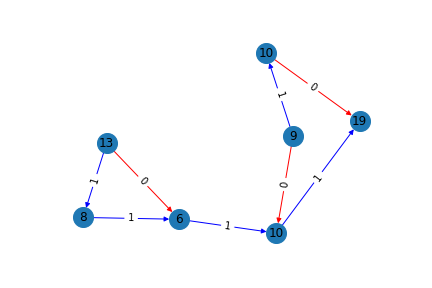
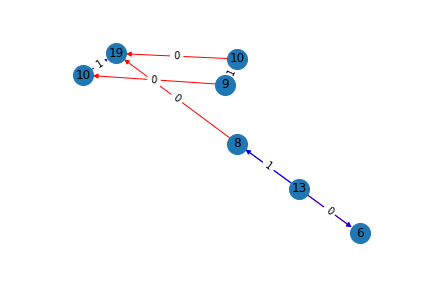
viewgen - output views

diff --git a/graph_expr/viewgen_combineQrys.py b/graph_expr/viewgen_combineQrys.py
@@ -47,10 +47,13 @@ while True:
 
 num_new_qrys = randint(1,1)
 new_qrys = []
+new_qrys_views = []
 for i in range(num_new_qrys):
     #rand choose num templates and which to use
     G = templates[0]
     H = templates[1]
+    new_qrys_views.append(G)
+    new_qrys_views.append(H)
     F = nx.compose(G,H)
     
     num_new_edges = randint(1,1)
@@ -81,6 +84,7 @@ fig = plt.figure()
 ax1 = plt.subplot2grid((1, 1), (0, 0))
 pos = nx.spring_layout(F)
 node_labels = nx.get_node_attributes(F, 'label')
+edges = nx.get_edge_attributes(F,'label')
 colors = [F[u][v]['color'] for u,v in edges]
 nx.draw(F, pos, with_labels=True,node_size=400, 
         labels = node_labels, edge_color=colors)
@@ -88,9 +92,47 @@ edge_labels = nx.get_edge_attributes(F, 'label')
 nx.draw_networkx_edge_labels(F, pos, edge_labels)
 plt.savefig("temp0_temp1_v1.png")
 
-# pdb.set_trace()
-
 #output templates used as views of this query set
+out_file = open("temp0_temp1_v1.vw", "w")
+for q, qry in enumerate(new_qrys_views):
+    out_file.write("q # " + str(q) + '\n')
+    nodes = nx.get_node_attributes(qry,'label')
+    for nodeID, vertex in enumerate(nodes.keys()):
+        out_file.write("v " + str(nodeID) + " " + nodes[vertex]  + '\n' )
+    edges = nx.get_edge_attributes(qry,'label')
+    for e in edges:
+        head = str(list(nodes.keys()).index(e[0]))
+        tail = str(list(nodes.keys()).index(e[1]))
+        out_file.write("e " + head + " " + tail + " " + edges[e] + '\n' )
+        
+out_file.close()
+
+F = templates[0]
+fig = plt.figure()
+ax1 = plt.subplot2grid((1, 1), (0, 0))
+pos = nx.spring_layout(F)
+node_labels = nx.get_node_attributes(F, 'label')
+edges = nx.get_edge_attributes(F,'label')
+colors = [F[u][v]['color'] for u,v in edges]
+nx.draw(F, pos, with_labels=True,node_size=400, 
+        labels = node_labels, edge_color=colors)
+edge_labels = nx.get_edge_attributes(F, 'label')
+nx.draw_networkx_edge_labels(F, pos, edge_labels)
+plt.savefig("view0.png")
+
+F = templates[1]
+fig = plt.figure()
+ax1 = plt.subplot2grid((1, 1), (0, 0))
+pos = nx.spring_layout(F)
+node_labels = nx.get_node_attributes(F, 'label')
+edges = nx.get_edge_attributes(F,'label')
+colors = [F[u][v]['color'] for u,v in edges]
+nx.draw(F, pos, with_labels=True,node_size=400, 
+        labels = node_labels, edge_color=colors)
+edge_labels = nx.get_edge_attributes(F, 'label')
+nx.draw_networkx_edge_labels(F, pos, edge_labels)
+plt.savefig("view1.png")
+
 
 
 
